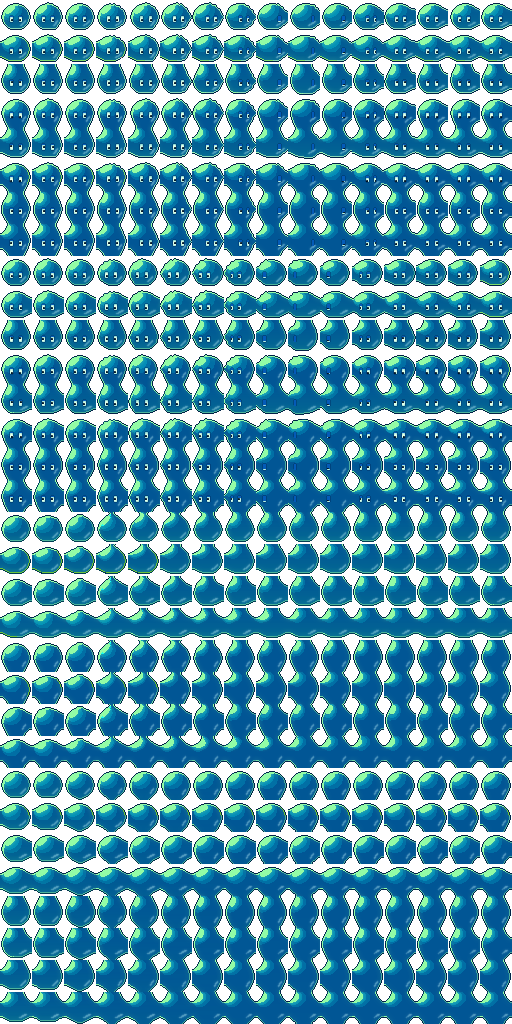
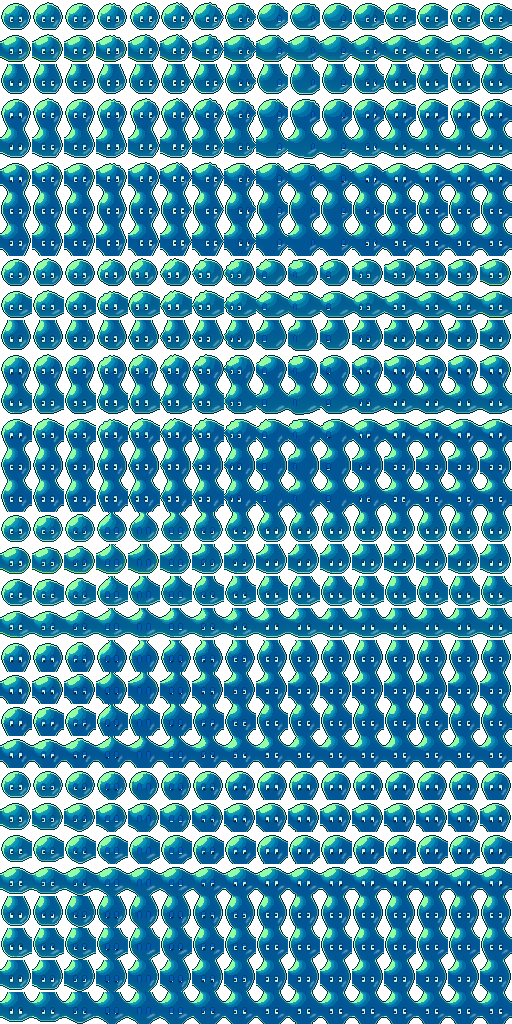
blobs disconnect when falling

diff --git a/Classes/GameBoardSystem.mm b/Classes/GameBoardSystem.mm
@@ -135,7 +135,7 @@ namespace game
 								_entityManager->addComponent <NeedsAnimation> (ee);
 							}
 						}
-						_map[col][j] = NULL;
+						//_map[col][j] = NULL;
 					}
 				}
 			}
